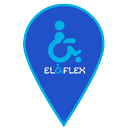
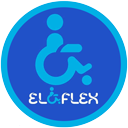
Add files via upload

diff --git a/public/js/app.js b/public/js/app.js
@@ -5562,12 +5562,12 @@ window.chargerPoints = chargerPoints;
 
 function pinIconCarte(reseau, point) {
   var cfg = RESEAUX_CONFIG[reseau] || { color:'#888', letter:'?' };
-  // Image spécifique par groupe (marqueur = l'image, ancrée par la pointe en bas)
+  // Image spécifique par groupe (marqueur = l'image ronde, ancrée en son centre)
   if (cfg.img) {
-    var noteI = point.note_interne ? '<div style="position:absolute;top:0;right:0;width:11px;height:11px;background:#16a34a;border:2px solid #fff;border-radius:50%"></div>' : '';
+    var noteI = point.note_interne ? '<div style="position:absolute;top:-1px;right:-1px;width:11px;height:11px;background:#16a34a;border:2px solid #fff;border-radius:50%"></div>' : '';
     var htmlI = '<div style="position:relative;width:34px;height:34px">' +
       '<img src="' + cfg.img + '" width="34" height="34" style="display:block;filter:drop-shadow(0 2px 3px rgba(0,0,0,.35))">' + noteI + '</div>';
-    return L.divIcon({ html: htmlI, className: '', iconSize: [34,34], iconAnchor: [17,34], popupAnchor: [0,-32] });
+    return L.divIcon({ html: htmlI, className: '', iconSize: [34,34], iconAnchor: [17,17], popupAnchor: [0,-18] });
   }
   // Anneau de statut selon commandes
   var ring = point.impayes > 0 ? '#ef4444' : point.en_cours > 0 ? '#f97316' : point.nb_commandes > 0 ? '#22c55e' : '#cbd5e1';
